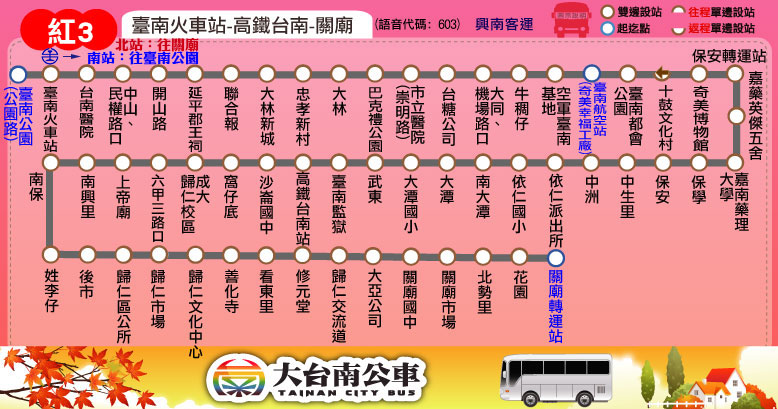
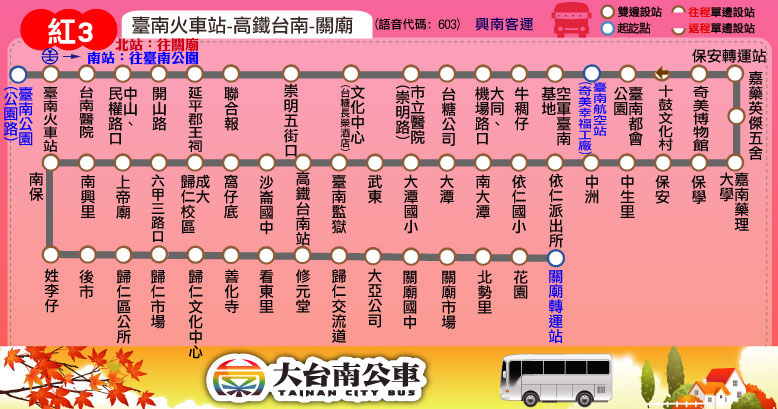
更新路線圖、票價表：紅3(微調行駛動線，「大林新城」、「忠孝新村」、「大林」、「巴克禮公園」取消停靠，於崇明路增設「崇明五街口」、「文化中心(台糖長榮酒店)」2處招呼站)

Changed region(s): [[0.3085, 0.1467, 0.4936, 0.3814], [0.7712, 0.0293, 0.8329, 0.088], [0.7095, 0.0293, 0.7712, 0.0587]]

diff --git a/route/fare_and_time/red_3.js b/route/fare_and_time/red_3.js
@@ -1,7 +1,7 @@
 red_3_interval_name = ["臺南","文化<br />中心","臺南<br />航空站","臺南都<br />會公園","保安<br />車站","嘉藥","保安","中洲","大潭","武東","高鐵<br />臺南站","六甲","歸仁","關廟","花園"];
 red_3_interval_stop = [
-["臺南公園(公園路)","臺南火車站","台南醫院","中山、民權路口","開山路","延平郡王祠","聯合報","大林新城","忠孝新村","大林"], // 臺南
-["巴克禮公園","市立醫院(崇明路)"], // 文化中心
+["臺南公園(公園路)","臺南火車站","台南醫院","中山、民權路口","開山路","延平郡王祠","聯合報"], // 臺南
+["崇明五街口","文化中心(台糖長榮酒店)","市立醫院(崇明路)"], // 文化中心
 ["台糖公司","大同、機場路口","牛稠仔","臺南空軍基地","臺南航空站(奇美幸福工廠)"], // 臺南航空站
 ["臺南都會公園","奇美博物館"], // 臺南都會公園
 ["十鼓文化村","保安轉運站"], // 保安轉運站
@@ -19,19 +19,19 @@ red_3_interval_stop = [
 red_3_fare = [
 [26],
 [26,26],
-[31,26,26],
-[36,26,26,26],
-[41,26,26,26,26],
-[46,26,26,26,26,26],
-[50,26,26,26,26,26,26],
-[58,34,27,26,26,26,26,26],
-[64,40,34,28,26,26,26,26,26],
-[67,43,36,30,26,26,26,26,26,26],
-[74,50,43,38,34,29,26,26,26,26,26],
+[30,26,26],
+[35,26,26,26],
+[40,26,26,26,26],
+[45,26,26,26,26,26],
+[49,26,26,26,26,26,26],
+[57,34,27,26,26,26,26,26],
+[63,40,34,28,26,26,26,26,26],
+[66,43,36,30,26,26,26,26,26,26],
+[73,50,43,38,34,29,26,26,26,26,26],
 [82,58,52,46,42,37,32,26,26,26,26,26],
-[100,76,69,63,59,54,50,42,35,33,26,26,26],
-[110,86,79,73,69,64,60,52,45,43,35,27,26,26],
-[115,91,84,79,75,70,65,58,51,49,41,33,26,26,26]
+[99,76,69,63,59,54,50,42,35,33,26,26,26],
+[109,86,79,73,69,64,60,52,45,43,35,27,26,26],
+[114,91,84,79,75,70,65,58,51,49,41,33,26,26,26],
 ];
 // format = [time at the start stop] or
 // [time, other] or
